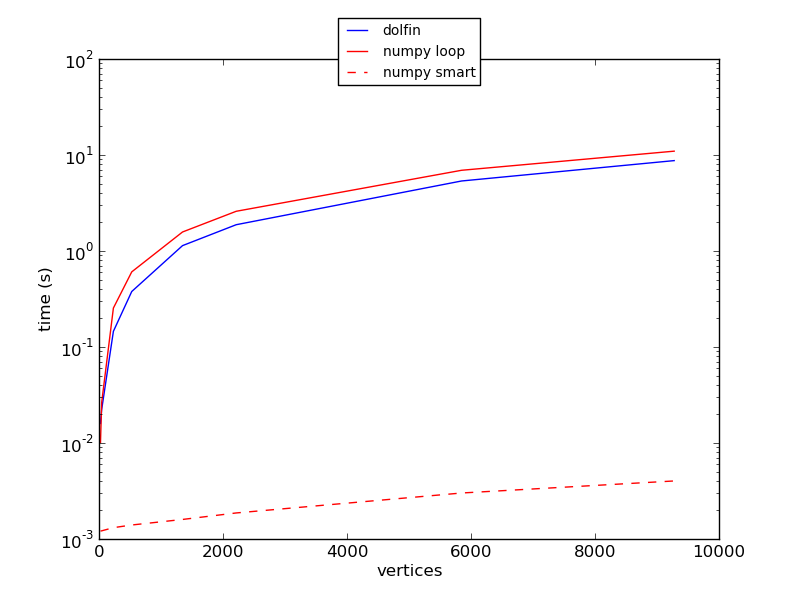
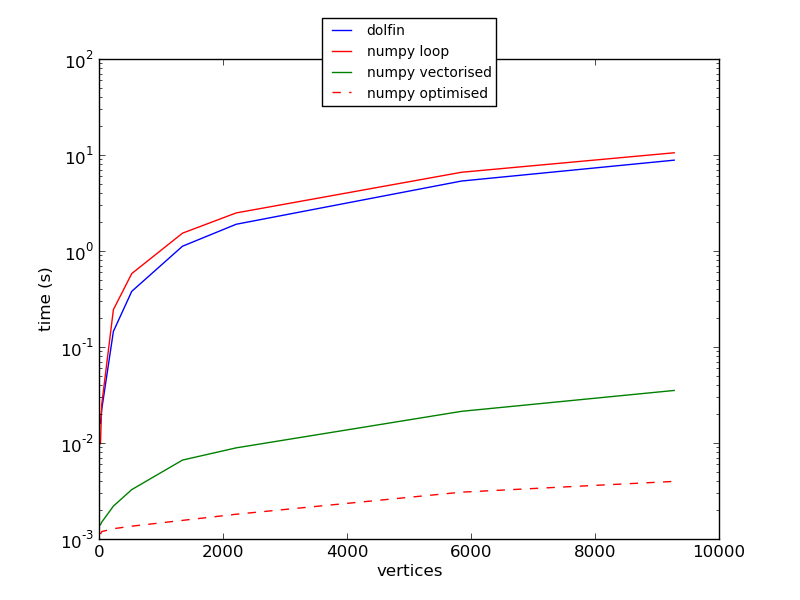
add the method Hans used in updating_expression_simple to plot

diff --git a/sandbox/benchmarks/updating_expression.py b/sandbox/benchmarks/updating_expression.py
@@ -41,6 +41,20 @@ def time_numpy_loop(mesh, ts):
                 f[i] = np.sin(x) * np.sin(t)
     return benchmark.elapsed, f
 
+def time_numpy_no_loop(mesh, ts):
+    """
+    Instead of looping over the coordinates like in time_numpy_loop, this has
+    saved the coordinates away so it can use vectorised numpy code.
+
+    """
+    f = np.empty(mesh.num_vertices())
+    xs = mesh.coordinates()[:,0]
+
+    with benchmark:
+        for t in ts:
+            f[:] = np.sin(xs) * np.sin(t)
+    return benchmark.elapsed, f
+
 def time_numpy_smart(mesh, ts):
     """
     This way of computing the function values is somewhat smarter than
@@ -49,6 +63,9 @@ def time_numpy_smart(mesh, ts):
     time, the space-dependent part of the function only needs to be computed
     once. Multiplied by the time-dependent part at each time step, the full
     function is reconstructed.
+
+    In a way, this method is not fair to the others, because it uses prior
+    knowledge about the function which the computer can't derive on its' own.
 
     """
     f = np.empty(mesh.num_vertices())
@@ -71,18 +88,21 @@ for i, dL in enumerate(dLs):
 
     t_dolfin, f_dolfin = time_dolfin(mesh, ts)
     t_numpy, f_numpy = time_numpy_loop(mesh, ts)
+    t_Hans, f_Hans = time_numpy_no_loop(mesh, ts)
     t_smart, f_smart = time_numpy_smart(mesh, ts)
 
     vertices.append(mesh.num_vertices())
-    runtimes.append((t_dolfin, t_numpy, t_smart))
+    runtimes.append((t_dolfin, t_numpy, t_Hans, t_smart))
 
     assert np.max(np.abs(f_dolfin - f_numpy)) < 1e-14
+    assert np.max(np.abs(f_dolfin - f_Hans)) < 1e-14
     assert np.max(np.abs(f_dolfin - f_smart)) < 1e-14
 
 runtimes = zip(* runtimes)
 plt.plot(vertices, runtimes[0], "b", label="dolfin")
 plt.plot(vertices, runtimes[1], "r", label="numpy loop")
-plt.plot(vertices, runtimes[2], "r--", label="numpy smart")
+plt.plot(vertices, runtimes[2], "g", label="numpy vectorised")
+plt.plot(vertices, runtimes[3], "r--", label="numpy optimised")
 plt.xlabel("vertices")
 plt.ylabel("time (s)")
 plt.yscale("log")
